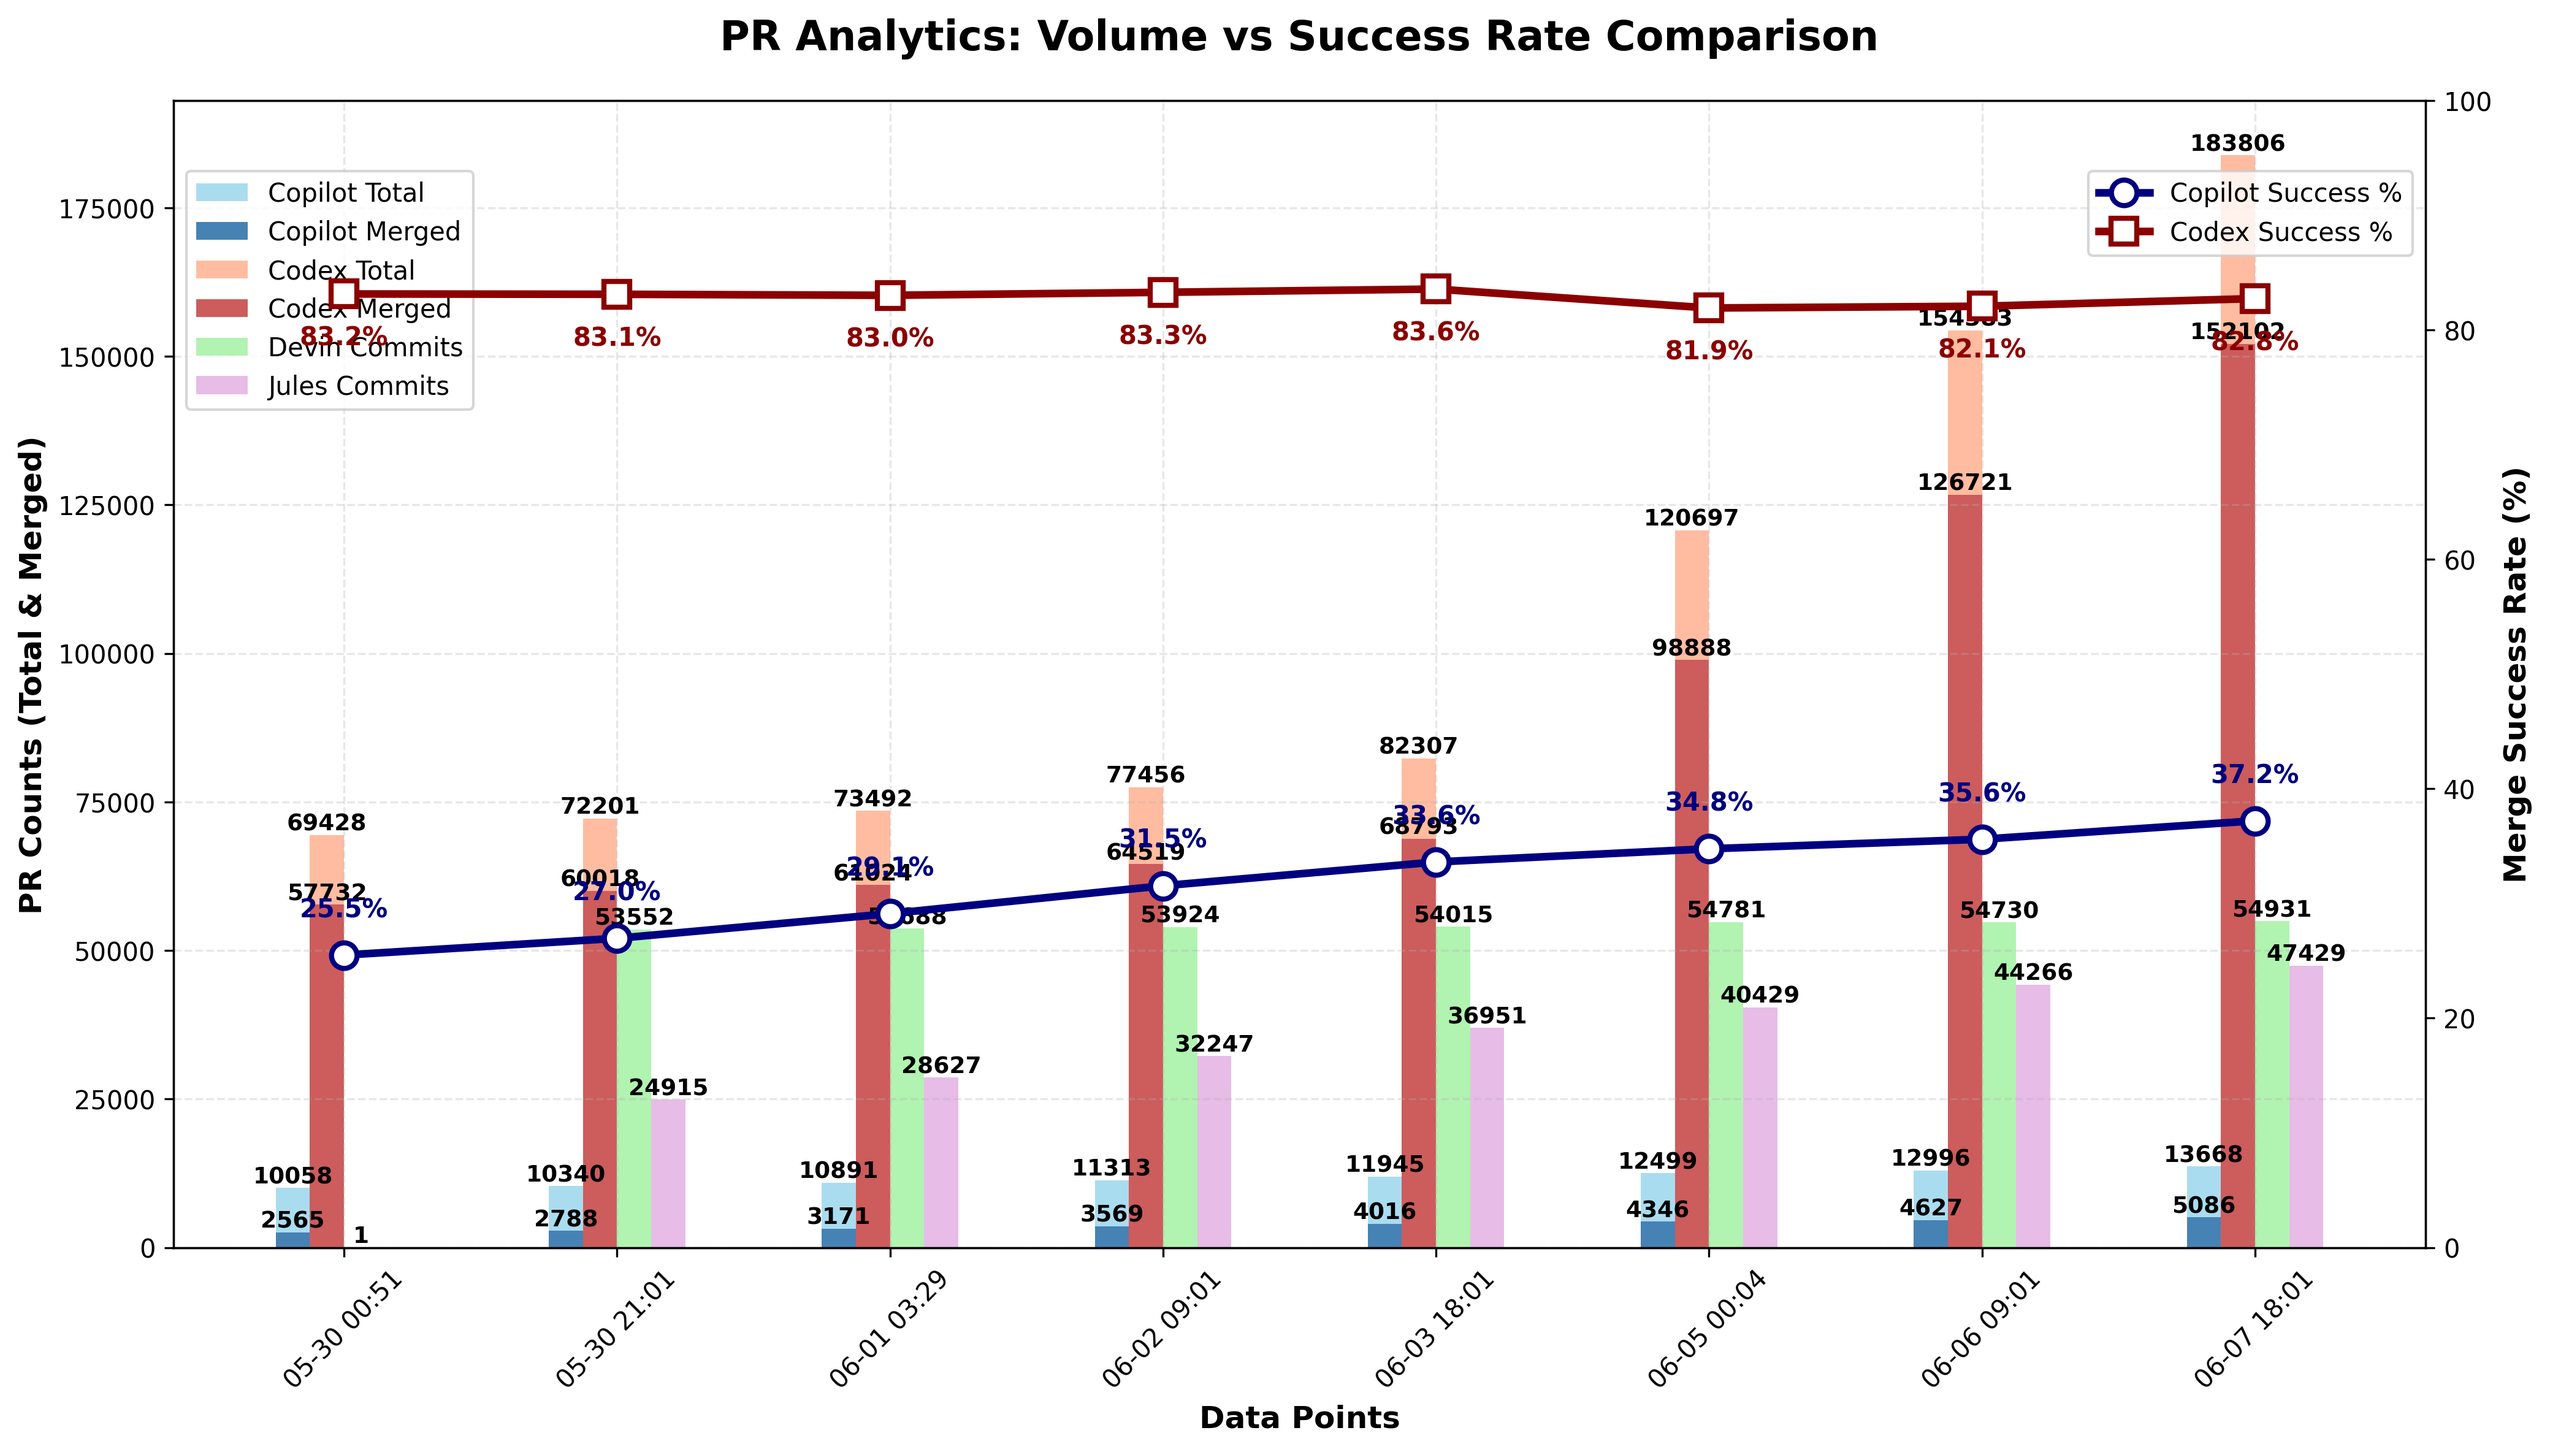
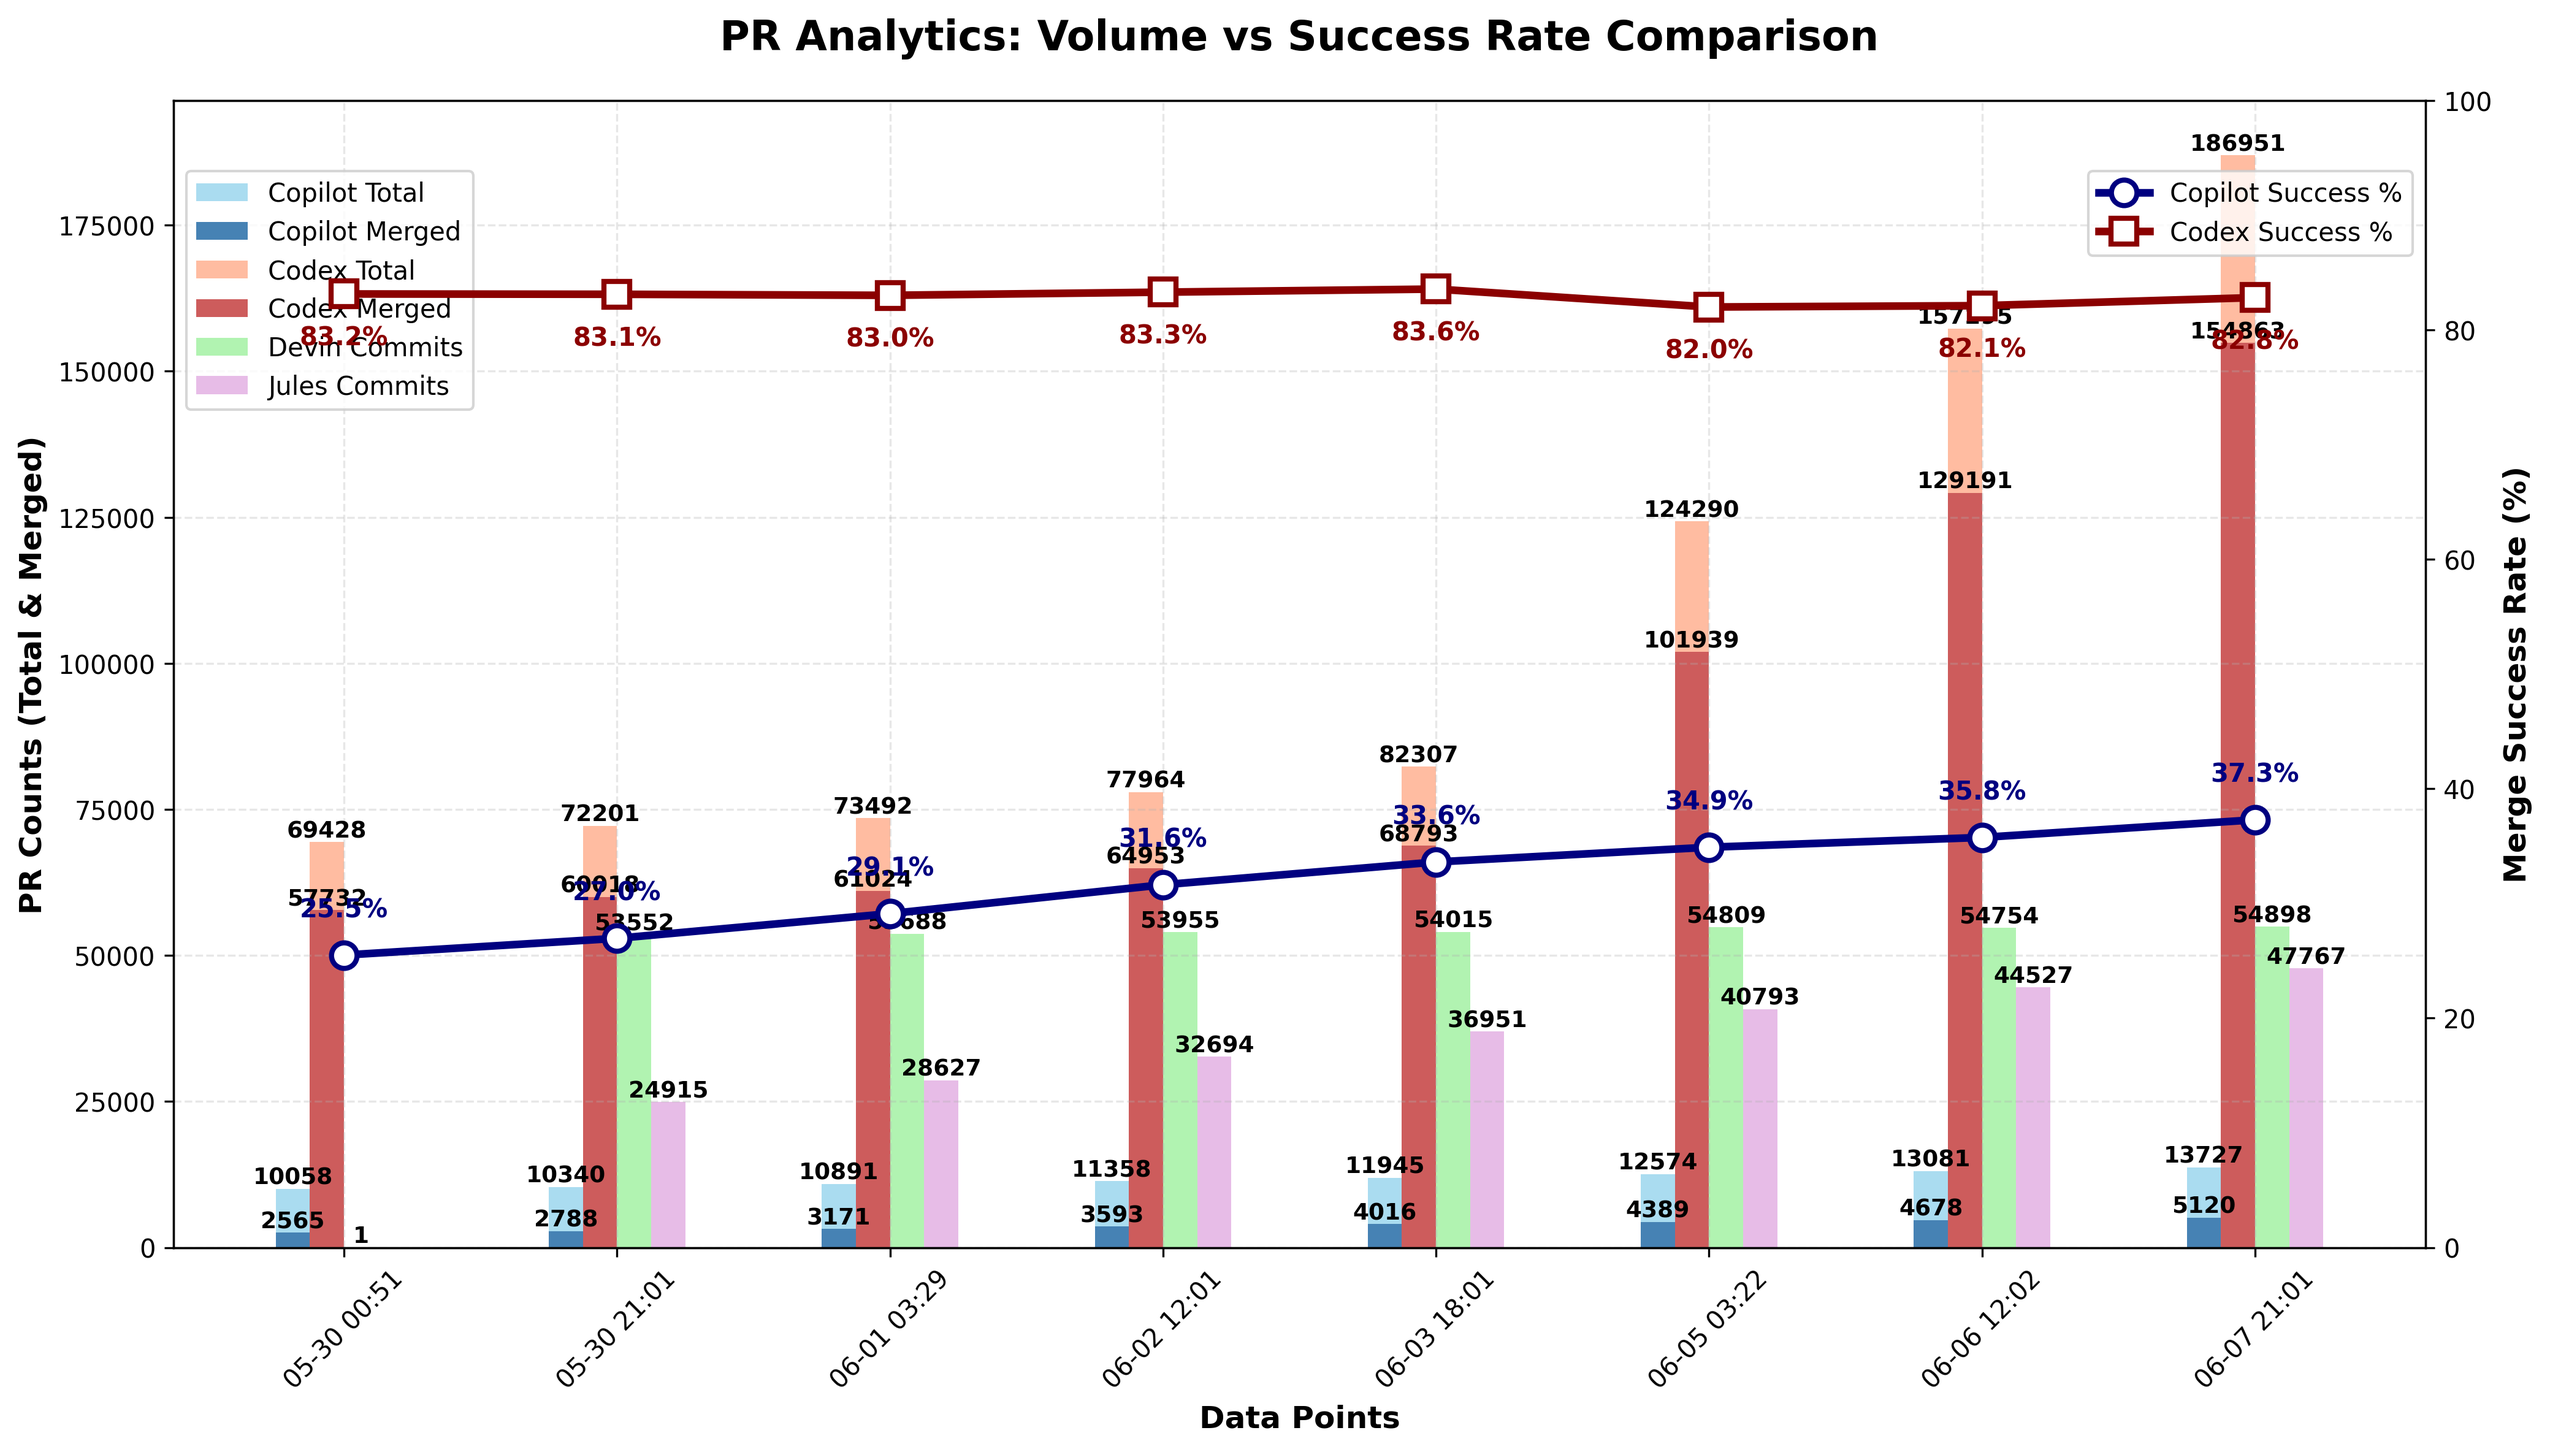
chore: update PR‑approval chart

diff --git a/docs/index.html b/docs/index.html
@@ -120,6 +120,7 @@
                         <td>N/A</td>
                         <td>N/A</td>
                         <td>N/A</td>
+                        <td>N/A</td>
                     </tr>
                     <tr>
                         <td>Codex</td>
@@ -198,27 +199,28 @@
                         <td>N/A</td>
                         <td>N/A</td>
                         <td>N/A</td>
+                        <td>N/A</td>
                     </tr>
                 <tr>
                         <td>Devin</td>
                         <td>N/A</td>
                         <td>N/A</td>
                         <td>N/A</td>
-                        <td>54,931</td>
+                        <td>54,898</td>
                     </tr>
                     <tr>
                         <td>Jules</td>
                         <td>N/A</td>
                         <td>N/A</td>
                         <td>N/A</td>
-                        <td>47,429</td>
+                        <td>47,767</td>
                     </tr>
                     </tbody>
             </table>
         </section>
 
         <footer>
-            <p>Last updated: <span id="last-updated">June 07, 2025 18:01 UTC</span></p>
+            <p>Last updated: <span id="last-updated">June 07, 2025 21:01 UTC</span></p>
             <p><a href="https://github.com/aavetis/ai-pr-watcher">View on GitHub</a></p>
         </footer>
     </div>

diff --git a/README.md b/README.md
@@ -19,7 +19,7 @@ Explore the GitHub search queries used:
 
 | Service | Total PRs | Merged PRs | Merge Rate | Total Commits |
 | ------- | --------- | ---------- | ---------- | ------------- |
-| Copilot | 13,668 | 5,086 | 37.21% | N/A           |
-| Codex   | 183,806 | 152,102 | 82.75% | N/A           |
-| Devin   | N/A       | N/A        | N/A        | 54,931 |
-| Jules   | N/A       | N/A        | N/A        | 47,429 |
+| Copilot | 13,727 | 5,120 | 37.30% | N/A           |
+| Codex   | 186,951 | 154,863 | 82.84% | N/A           |
+| Devin   | N/A       | N/A        | N/A        | 54,898 |
+| Jules   | N/A       | N/A        | N/A        | 47,767 |
